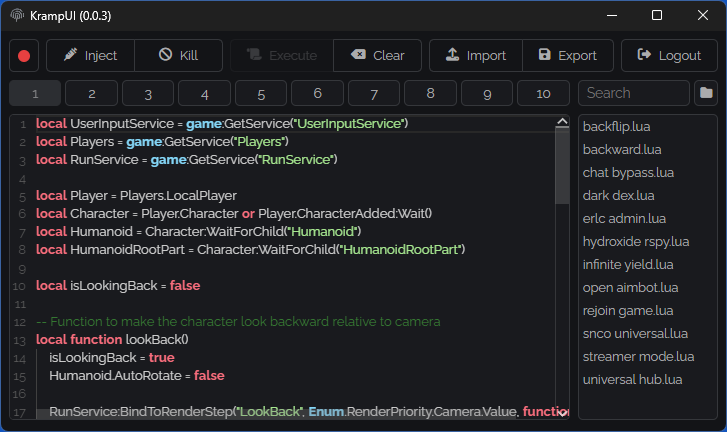
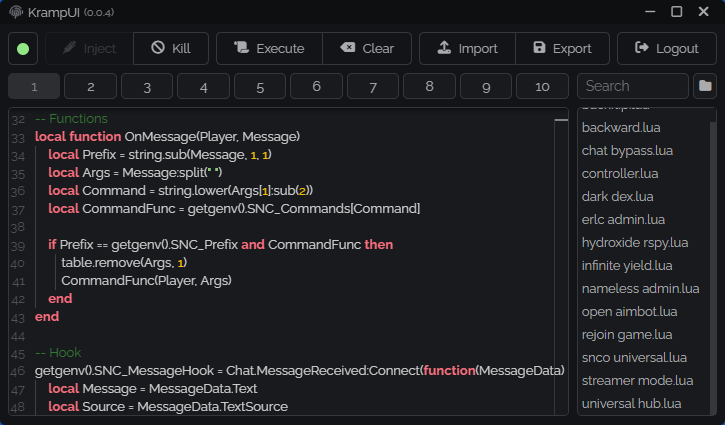
0.0.4

Changed region(s): [[0.0, 0.0, 1.0, 1.0]]

diff --git a/src/assets/styles.css b/src/assets/styles.css
@@ -4,6 +4,7 @@
 
 /* Variables */
 :root {
+    --darker: #0e0f11;
     --dark: #131417;
     --light: #191a1e;
     --lighter: #35373b;
@@ -35,12 +36,43 @@
 /* Global */
 body {
     height: 100vh;
-    background-color: var(--dark);
+    background-color: transparent;
     margin: 0;
     overflow: hidden;
 }
 
-body > *:not(.active) {
+.kr-bg {
+    position: absolute;
+    z-index: -1;
+    top: 0;
+    left: 0;
+    width: 100vw;
+    height: 100vh;
+    background-color: var(--dark);
+    border-radius: 5px;
+}
+
+.kr-drag-left {
+    width: 0.25rem;
+    height: 0.25rem;
+    position: absolute;
+    top: 0;
+    left: 0;
+}
+
+.kr-drag-right {
+    width: 0.25rem;
+    height: 0.25rem;
+    position: absolute;
+    top: 0;
+    right: 0;
+}
+
+body.kr-maximized .kr-bg {
+    border-radius: 0;
+}
+
+body > *:not(.active):not(.kr-bg):not(.kr-titlebar):not(.kr-drag-left):not(.kr-drag-right) {
     position: absolute !important;
     z-index: -999999 !important;
     pointer-events: none !important;
@@ -138,13 +170,74 @@ body > *:not(.active) {
     background-color: var(--lighter);
 }
 
+/* Titlebar */
+.kr-titlebar {
+    display: flex;
+    justify-content: space-between;
+    background-color: var(--darker);
+    width: 100%;
+    height: 1.5rem;
+    padding: 0 0.5rem;
+    box-sizing: border-box;
+    overflow: hidden;
+    user-select: none;
+    border-top-left-radius: 5px;
+    border-top-right-radius: 5px;
+}
+
+body.kr-maximized .kr-titlebar {
+    border-top-left-radius: 0;
+    border-top-right-radius: 0;
+}
+
+.kr-titlebar .brand {
+    display: flex;
+    align-items: center;
+    gap: 0.25rem;
+    pointer-events: none;
+}
+
+.kr-titlebar .image {
+    width: 1rem;
+    height: 1rem;
+}
+
+.kr-titlebar .text {
+    font-size: 0.8rem;
+}
+
+.kr-titlebar .version {
+    font-size: 0.7rem;
+    opacity: 75%;
+}
+
+.kr-titlebar .buttons {
+    display: flex;
+    align-items: center;
+}
+
+.kr-titlebar .tb-button {
+    all: unset;
+    display: flex;
+    align-items: center;
+    justify-content: center;
+    font-size: 0.75rem;
+    padding: 0.5rem;
+    box-sizing: border-box;
+}
+
+.kr-titlebar .tb-button:hover {
+    background-color: var(--light);
+    cursor: pointer;
+}
+
 /* Login */
 .login {
     display: flex;
     flex-direction: column;
     align-items: center;
     justify-content: center;
-    height: 100vh;
+    height: calc(100vh - 24px);
     gap: 1rem;
 }
 
@@ -284,7 +377,7 @@ body > *:not(.active) {
 }
 
 .exploit > .main > * {
-    height: calc(100vh - 3.5rem);
+    height: calc(100vh - 24px - 8px - 26px - 8px - 8px - 8px);
     border: 1px solid var(--lighter);
     border-radius: 5px;
     box-sizing: border-box;

diff --git a/src/assets/main.js b/src/assets/main.js
@@ -1,6 +1,7 @@
 const { invoke } = window.__TAURI__.tauri;
 const { open, Command } = window.__TAURI__.shell;
 const { appWindow } = window.__TAURI__.window;
+const process = window.__TAURI__.process;
 const dialog = window.__TAURI__.dialog;
 const path = window.__TAURI__.path;
 const fs = window.__TAURI__.fs;
@@ -14,6 +15,22 @@ let exploitIndicator, exploitTabs, exploitEditor, exploitScripts, exploitScripts
 let editor, editorGetText, editorSetText, editorRefresh;
 let exploitInject, exploitExecute, exploitImport, exploitExport, exploitClear, exploitKill, exploitLogout;
 let prevConnected, prevActive, editorReady, activeTab, injecting, autoInject;
+
+async function minimize() {
+  await appWindow.minimize();
+}
+
+async function maximize() {
+  await appWindow.toggleMaximize();
+}
+
+async function isMaximized() {
+  return await appWindow.isMaximized();
+}
+
+async function exit() {
+  await process.exit();
+}
 
 function checkActive() {
   if (websocket && websocket.readyState === websocket.OPEN) {
@@ -783,6 +800,20 @@ window.addEventListener("DOMContentLoaded", async function () {
   await createDirectory("scripts", true);
   await createDirectory("autoexec", true);
   await createDirectory("tabs", true);
+
+  // Titlebar
+  document.querySelector(".tb-button.minimize").addEventListener("click", minimize);
+  document.querySelector(".tb-button.maximize").addEventListener("click", maximize);
+  document.querySelector(".tb-button.exit").addEventListener("click", exit);
+
+  // Maximized
+  async function checkMaximized() {
+    const maximized = await isMaximized();
+    document.body.classList.toggle("kr-maximized", maximized);
+  }
+
+  checkMaximized();
+  window.addEventListener("resize", checkMaximized);
 
   // Sections
   loginSection = document.querySelector("body > .login");

diff --git a/src/index.html b/src/index.html
@@ -11,6 +11,21 @@
     <script type="module" src="./assets/main.js" defer></script>
   </head>
   <body>
+    <div class="kr-bg"></div>
+    <div class="kr-drag-left"></div>
+    <div class="kr-drag-right"></div>
+    <div class="kr-titlebar" data-tauri-drag-region>
+      <div class="brand">
+        <img class="image" src="./assets/icon.png">
+        <p class="text">KrampUI</p>
+        <p class="version">(0.0.4)</p>
+      </div>
+      <div class="buttons">
+        <button class="tb-button minimize"><i class="fa-solid fa-minus"></i></button>
+        <button class="tb-button maximize"><i class="fa-regular fa-square"></i></button>
+        <button class="tb-button exit"><i style="font-size: 0.925rem !important" class="fa-solid fa-times"></i></button>
+      </div>
+    </div>
     <div class="login active">
       <div class="title">
         <img class="image" src="./assets/icon.png">
